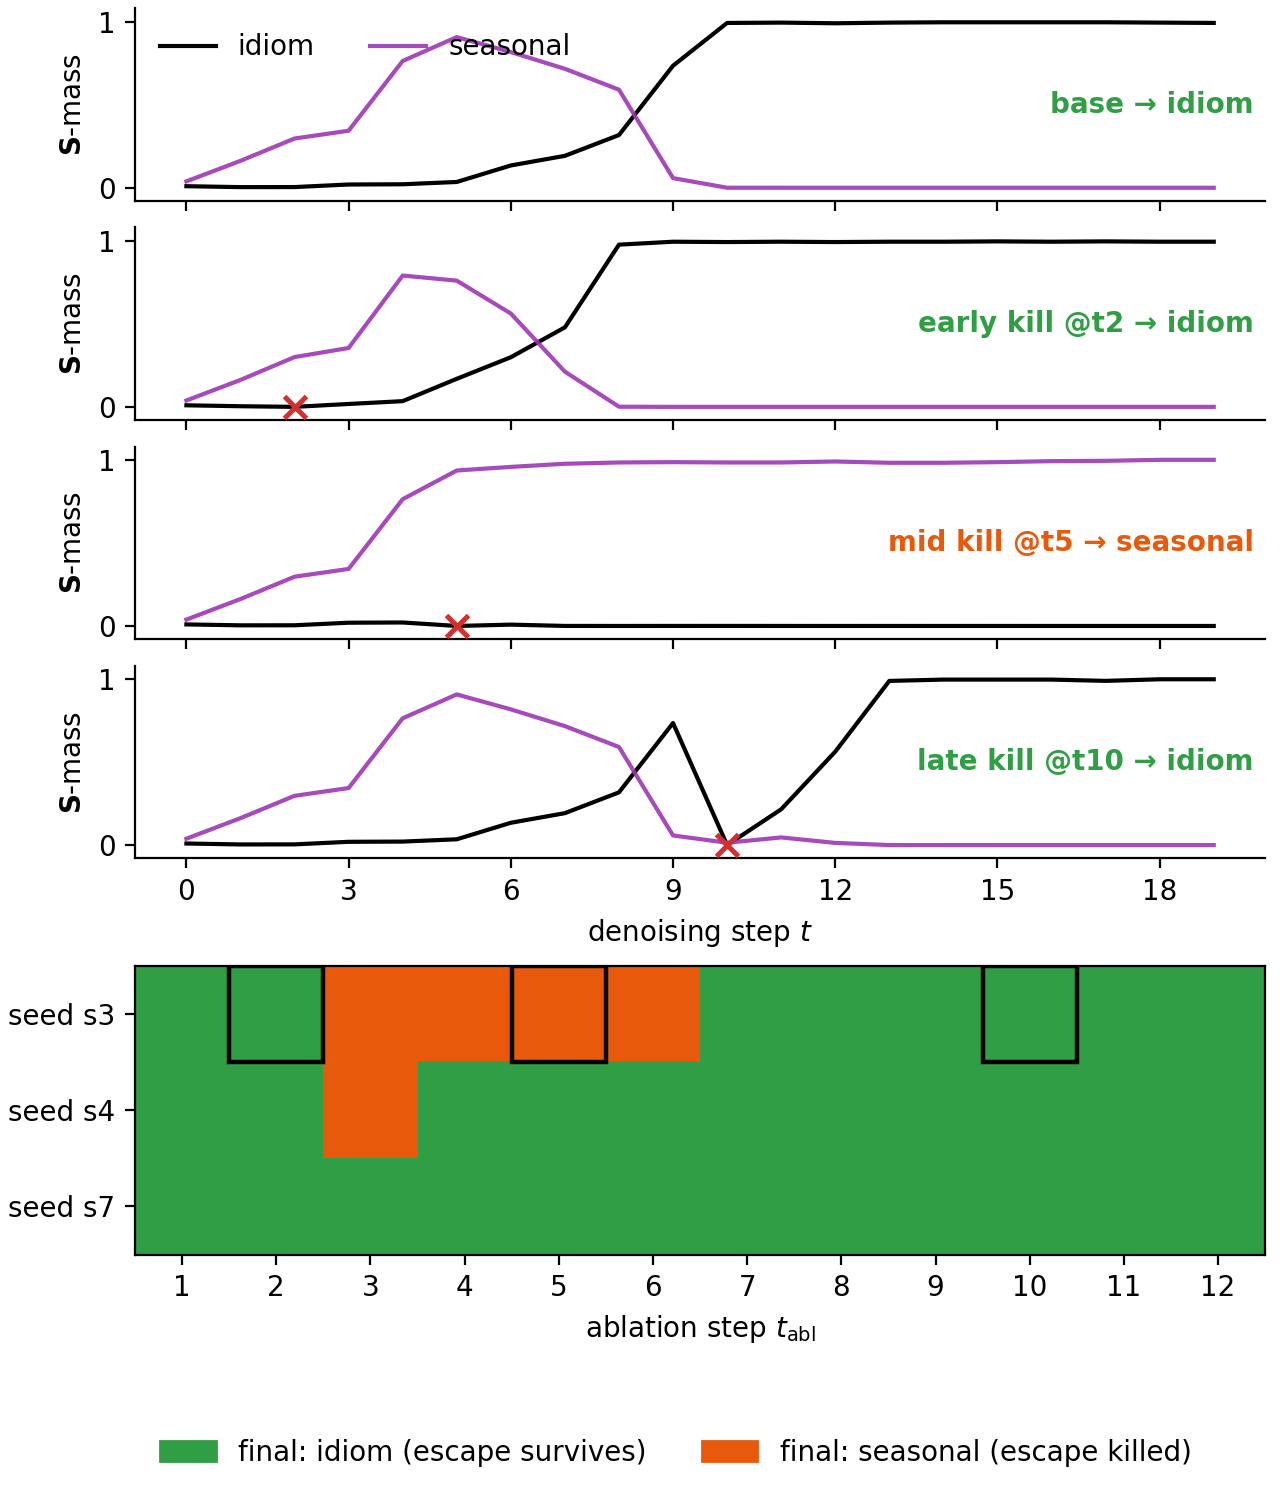
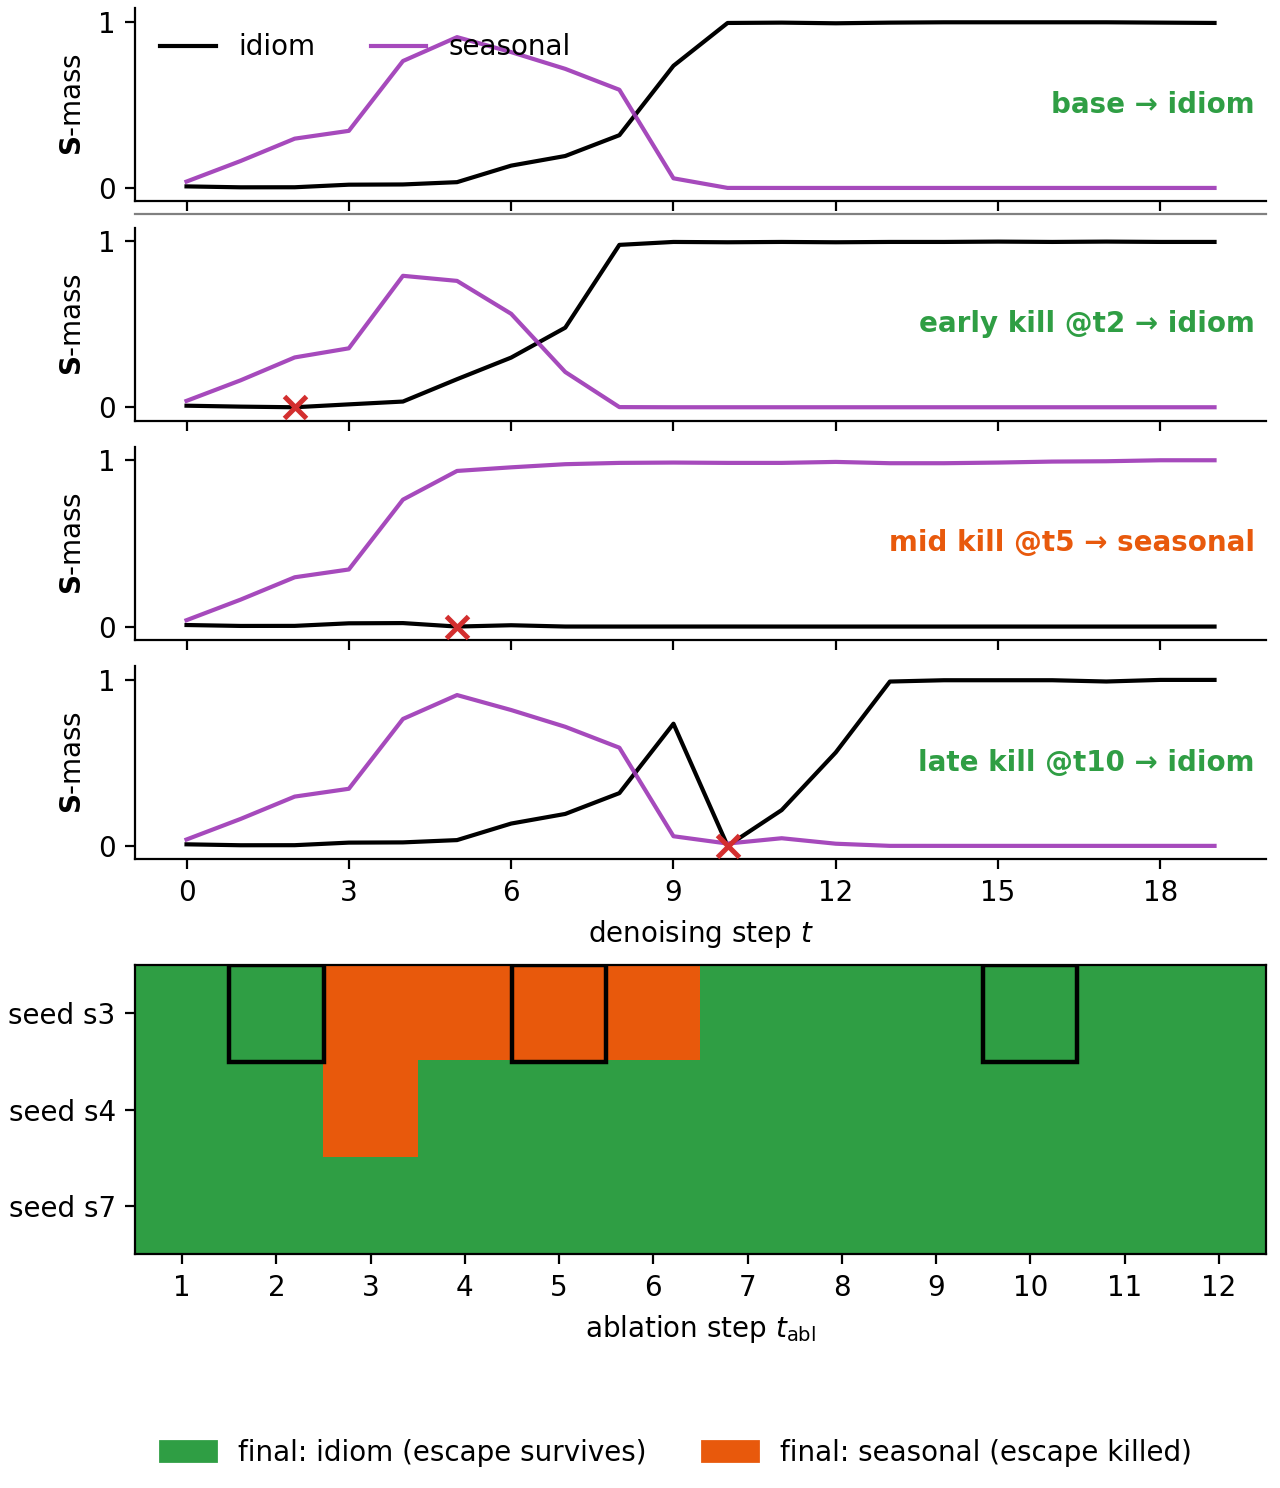
A5: hline separator between base and ablation panels, integer step ticks
Claude-Session: https://claude.ai/code/session_01U8CiyQ7ySpBDkYEq4FzNBU

diff --git a/scripts/figA5_ember.py b/scripts/figA5_ember.py
@@ -28,8 +28,10 @@ fig = plt.figure(layout="constrained",
                           plt.rcParams["figure.figsize"][1] * 1.55))
 G = fig.add_gridspec(5, 1, height_ratios=[1, 1, 1, 1, 1.5])
 axB = None
+traj_axes = []
 for i, (tag, lab, t_abl) in enumerate(PANELS):
     ax = fig.add_subplot(G[i, 0], sharex=axB, sharey=axB)
+    traj_axes.append(ax)
     axB = axB or ax
     r = by[(3, tag)]
     ax.plot(r["m_idt"], color=IDIOM, label="idiom")
@@ -70,5 +72,12 @@ axS.set_xlabel(r"ablation step $t_{\mathrm{abl}}$")
 axS.legend(handles=[Patch(color=GREEN, label="final: idiom (escape survives)"),
                     Patch(color=ORANGE, label="final: seasonal (escape killed)")],
            loc="upper left", bbox_to_anchor=(0, -0.55), frameon=False, ncols=2)
+# separator between the base panel and the ablation panels
+fig.canvas.draw()
+fig.set_layout_engine("none")
+b0, b1 = traj_axes[0].get_position(), traj_axes[1].get_position()
+ymid = (b0.y0 + b1.y1) / 2
+fig.add_artist(plt.Line2D([b0.x0, b0.x1], [ymid, ymid], color="0.5", linewidth=0.8,
+                          linestyle="-", transform=fig.transFigure))
 fig.savefig(OUT / "figA5_seasonal_ember_kill.png", dpi=200)
 print(OUT / "figA5_seasonal_ember_kill.png")

diff --git a/post.md b/post.md
@@ -86,7 +86,7 @@ In this post, we have studied whether DiffusionGemma has latent reasoning, and f
 
 ## Appendix
 
-The findings in Engels et al. and in this post have focussed on DiffusionGemma's behavior. We here study whether the model's representation supports the behavioral finding of high monitorability. 
+The findings in Engels et al. and in this post have focussed on DiffusionGemma's behavior. We here study whether the model's representation supports the behavioral finding of high monitorability.
 
 ### A1: Representation similarity (cosine & CKA)
 
@@ -112,9 +112,15 @@ The findings in Engels et al. and in this post have focussed on DiffusionGemma's
 
 *Top: mean GT-appearance score $A=1-e^{-n}$ ($n$ = matching top-20 lens tokens; 551 items) — fitted Jacobian lenses transfer across the AR/diffusion boundary (gemma→DG retention ≈0.76). Bottom: top-5 lens tokens per audited layer for one multihop item, read on gemma-4 vs DG residuals with the same gemma-fit Jacobian — the gemma read surfaces the surface answer (Atlantic/ocean), the DG read the latent intermediate (Brazil).*
 
-### A5: Case study — two competing completions (seasonal vs idiom)
+### A5: Autonomous computational usage of $\mathbf{S}^t$
 
-[stub:] Asked to complete a palindrome, DG maintains two competing completions of the same canvas: a literal seasonal phrase ("fall leaves as soon as leaves fall") and the famous idiom ("all for one and one for all"). The canvas can only ever show one — but $\mathbf{S}_t$ carries both, and the loser can win: in escaping runs the idiom's sheet mass ramps up gradually over several steps while every visible draft still reads seasonal, until the canvas flips. This is a concrete case of belief content that a token-level monitor cannot see at the step where it matters — though it becomes visible the moment one reads $\mathbf{S}_t$ itself.
+In the _letter arithmetic_ task introduced in the main text, DiffusionGemma did respond to modifications of the distributional state in the way we expected. While suggestive, it is unclear if the model also _autonomously_ would make use of its state.
+
+To investigate this, we searched for a non-trivial (i.e., not just a binary choice) task where DG will use a hypothesis subleading in its distribution autonomously. An instance we found is a word-level _palindrome_ task. When asked ```Please write a word-level palindrome```, DG maintains two competing completions of the same canvas: a literal _seasonal_ phrase (```fall leaves as soon as leaves fall```) and the famous _idiom_ (```all for one and one for all```).
+
+The canvas will read the _seaonal_ answer for the first few diffusion steps, after which it flips and stays at _idiom_. Interestingly, this is accompanied by _dynamics_ in $\mathbf{S}^t$: _idiom_ will start at ~0, and progressively gain weight, replacing _seasonal_.
+
+We validated that the emergence of _idiom_ is indeed causal: when ablating _idiom_'s tokens, the transition can be prevented. Note however that early and late ablation do not have this effect.
 
 ![Seasonal vs idiom: ember kill](figs/figA5_seasonal_ember_kill.png)
 
